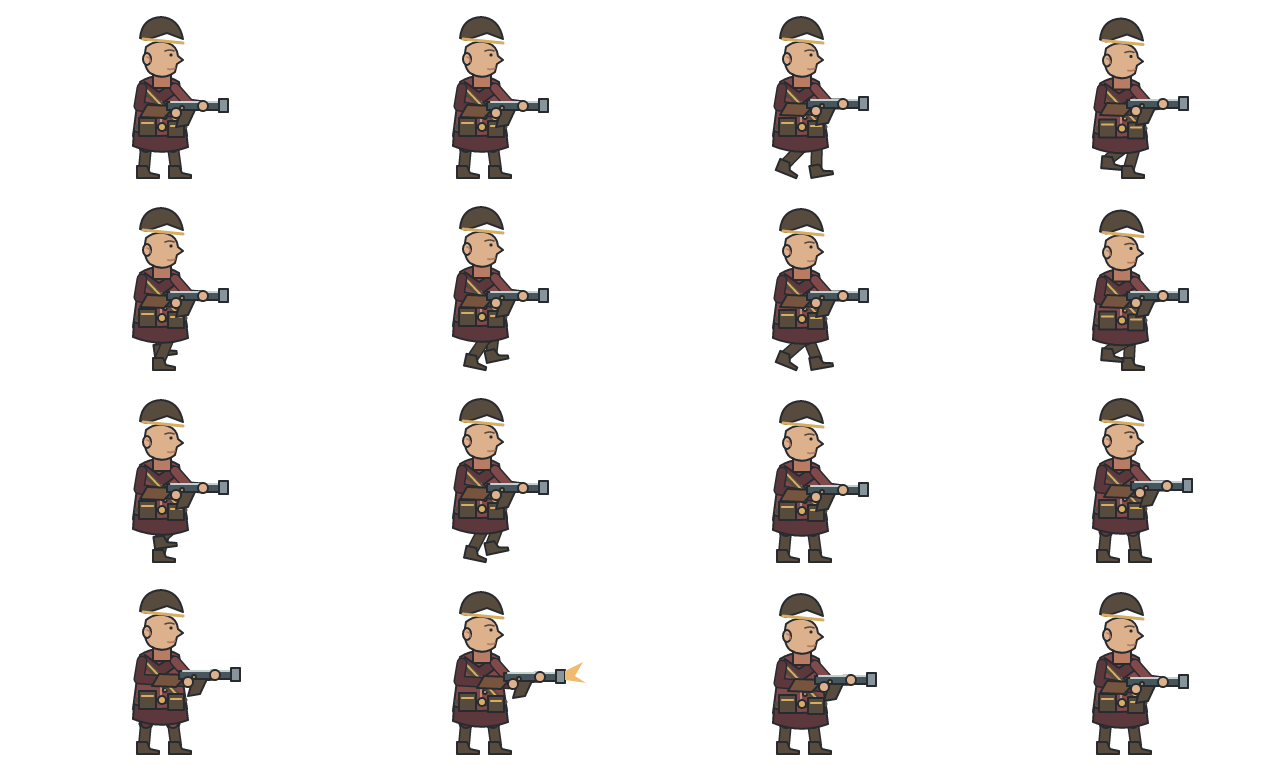
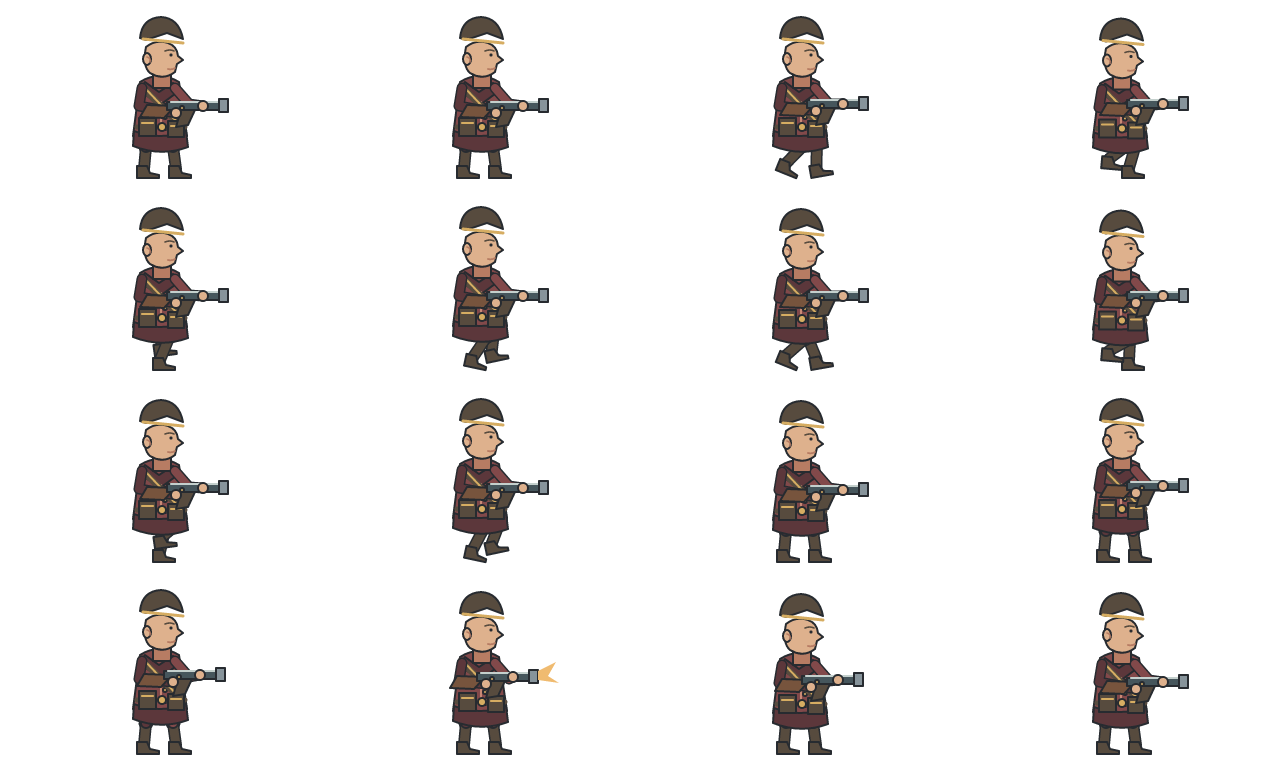
Fix firearm recoil in Industrial draft

diff --git a/INDUSTRIAL_ERA_PREPARATION.md b/INDUSTRIAL_ERA_PREPARATION.md
@@ -21,6 +21,6 @@
 
 Запуск: `npm run art:industrial-draft`, затем `npm run dev`; страница `/sprite-lab.html?era=industrial`. Все привычные фильтры единой лаборатории доступны и для черновика: роль, сторона, поза, направление, масштаб, фон, скорость, поиск и покадровый просмотр. Локальные контрольные листы создаются в `output/industrial-draft/`.
 
-После первого показа пользователь указал на заметные дефекты почти всех моделей, включая стойку. Во второй ревизии выпрямлены силуэты мундиров и походка, руки штыковика и винтовочника наложены на ложу в точках хвата, ключ механика помещён в ладонь. В третьей ревизии по замечанию пользователя велосипед заменён боевым карабинером, паровая мортира — полевой гаубицей с обычным лафетом. Лица перерисованы: профиль, глаз, ухо и линия рта отделены друг от друга. Переработаны бросок заряда и читаемость лечения.
+После первого показа пользователь указал на заметные дефекты почти всех моделей, включая стойку. Во второй ревизии выпрямлены силуэты мундиров и походка, руки штыковика и винтовочника наложены на ложу в точках хвата, ключ механика помещён в ладонь. В третьей ревизии по замечанию пользователя велосипед заменён боевым карабинером, паровая мортира — полевой гаубицей с обычным лафетом. Лица перерисованы: профиль, глаз, ухо и линия рта отделены друг от друга. У винтовочника и карабинера при выстреле оружие и удерживающие его руки уходят к корпусу от отдачи, затем возвращаются. Переработаны бросок заряда и читаемость лечения.
 
 Генератор проверяет края атласов; `check-industrial-draft.mjs` проверяет восемь ролей, обе палитры, все 16 кадров, достаточную высоту и различимость кадров ходьбы/действия. Художественная проверка включает контрольные листы 100%, 52% и 34%, а также 16 кадров каждой модели на обеих сторонах. Эти проверки не являются апрувом пользователя. После апрува — интеграция восьми ролей в игру, четыре боя, механика перегрева, отдельные сохранения и баланс с контрольными походами.
